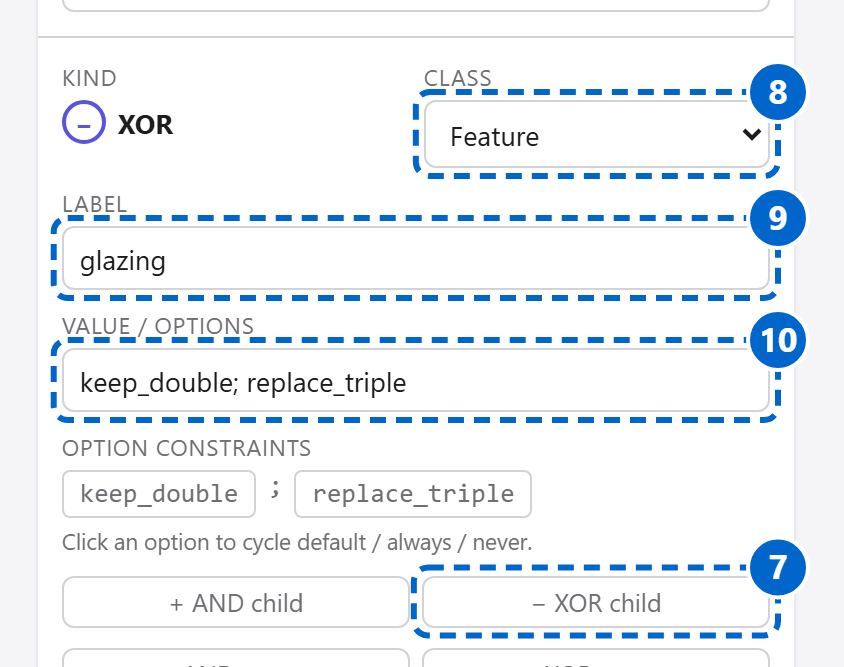
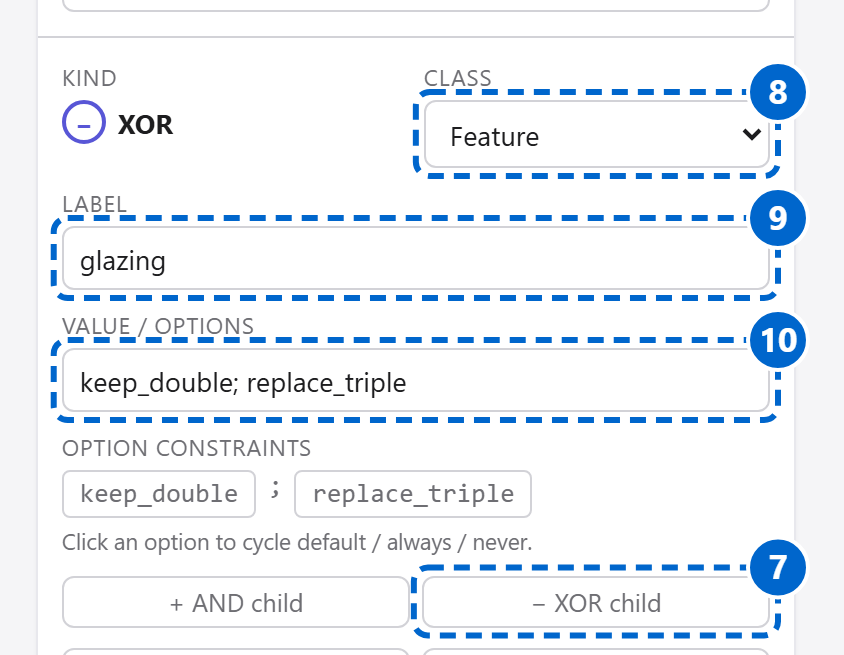
Update PNG & RENATA mentions

diff --git a/styles/editor.css b/styles/editor.css
@@ -34,7 +34,6 @@
 	--color-search-match: #FFE69A;
 	--color-search-current: #FDBF8E;
 
-	--font-display: system-ui, -apple-system, 'Segoe UI', sans-serif;
 	--font-body: system-ui, -apple-system, 'Segoe UI', sans-serif;
 	--font-mono: 'SF Mono', Consolas, monospace;
 
@@ -122,26 +121,6 @@ select {
 	height: 80px;
 }
 
-@media (max-width: 819px) {
-	.page-header {
-		grid-template-columns: auto 1fr;
-		column-gap: 16px;
-	}
-
-	#page-title {
-		grid-row: 1;
-		justify-self: center;
-		min-width: 0;
-		margin: 0;
-	}
-
-	.page-logo {
-		max-width: 100%;
-		height: 48px;
-		object-fit: contain;
-	}
-}
-
 .tutorial-start {
 	display: flex;
 	grid-row: 1 / 3;
@@ -151,14 +130,6 @@ select {
 	justify-self: end;
 	gap: 10px;
 	margin-top: -12px;
-}
-
-@media (max-width: 819px) {
-	.tutorial-start {
-		grid-row: 2;
-		grid-column: 2;
-		margin-top: 0;
-	}
 }
 
 .tutorial-btn {
@@ -186,19 +157,6 @@ select {
 	border-bottom: 1px solid var(--color-border);
 }
 
-@media (max-width: 559px) {
-	.tutorial-start {
-		grid-column: 1 / -1;
-		justify-self: start;
-		white-space: nowrap;
-	}
-
-	.tabs {
-		grid-row: 3;
-		white-space: nowrap;
-	}
-}
-
 .tab {
 	padding: 10px 18px;
 	border: 1px solid transparent;
@@ -220,6 +178,49 @@ select {
 	color: var(--color-ink);
 	font-weight: 600;
 }
+
+/* ---------- Zoomed-in header ---------- */
+
+@media (max-width: 819px) {
+	.page-header {
+		grid-template-columns: auto 1fr;
+		column-gap: 16px;
+	}
+
+	#page-title {
+		grid-row: 1;
+		justify-self: center;
+		min-width: 0;
+		margin: 0;
+	}
+
+	.page-logo {
+		max-width: 100%;
+		height: 48px;
+		object-fit: contain;
+	}
+
+	.tutorial-start {
+		grid-row: 2;
+		grid-column: 2;
+		margin-top: 0;
+	}
+}
+
+@media (max-width: 559px) {
+	.tutorial-start {
+		grid-column: 1 / -1;
+		justify-self: start;
+		white-space: nowrap;
+	}
+
+	.tabs {
+		grid-row: 3;
+		white-space: nowrap;
+	}
+}
+
+/* ---------- Tab panels ---------- */
 
 main {
 	display: flex;
@@ -2376,7 +2377,6 @@ button.value-chip:hover { border-color: var(--color-ink-muted); }
 
 .calc-report-title {
 	color: var(--color-ink);
-	font-family: var(--font-display);
 	font-size: 1.1rem;
 	font-weight: 600;
 }

diff --git a/index.html b/index.html
@@ -419,7 +419,7 @@
 						</div>
 						<a href="resources/tutorial/quick-start-4.png" target="_blank" rel="noopener"
 							title="Open the image at full size">
-							<img src="resources/tutorial/quick-start-4.png" width="422" height="334"
+							<img src="resources/tutorial/quick-start-4.png" width="422" height="328"
 								alt="The editor panel. XOR child is marked 7, Class 8, Label 9 and Value / options
 									10." />
 						</a>

diff --git a/src/core/parser.js b/src/core/parser.js
@@ -285,7 +285,7 @@ NovaDM.Parser = (function (Model, Calculations, Util) {
 		/**
 		 * @param {string} text the file's text
 		 * @returns {{tree: Array, history: Object, source: string, addedRoot: boolean}}
-		 * Throws an Error with a readable message if this is not a NovaDM file.
+		 * Throws an Error with a readable message if this is not a RENATA action tree file.
 		 */
 		parse: function (text) {
 			var data = parseJson(text);

diff --git a/spec/action-tree-grammar.md b/spec/action-tree-grammar.md
@@ -495,7 +495,8 @@ the detailed reference, for looking things up.
   outlined (their letters are paths), so they need no font and no
   internet connection. The header is hidden in the report's PDF. The
   README alone uses `renata-logo-dark.svg`, the same logo with colours
-  for GitHub's dark theme.
+  for GitHub's dark theme; only the colours differ, so change the two
+  together.
 - **The guides' buttons** sit at the right and span both rows with the
   same top margin as the RENATA logo, so the two are centred on one line.
   They reach into the tab bar's row, so they come after the tabs in the
@@ -1467,7 +1468,7 @@ it has none (the example, Clear tree, a new document).
 To switch to a different file type: edit `extension` / `mimeType` /
 `defaultName` on `TREE_FILE_FORMAT`, and rewrite `serialize()` /
 `parse()`. `parse()` must throw an `Error` with a readable message if
-the text isn't a NovaDM file. (If the new format is binary, the
+the text isn't a RENATA action tree file. (If the new format is binary, the
 `reader.readAsText` / `new Blob` calls in `tree-io.js`'s import/export
 handlers need to change too.)
 
@@ -1522,6 +1523,8 @@ every version; the others have the starter data in every version.
   K45 versions) carry a `source` line: "This renovation design concept
   was developed by COWI as part of the Horizon 2020 research project
   PROBONO (No. 101037075) funded by the European Union."
-
-These files aren't unified – known and deliberately deferred, not an
-oversight.
+- `examples/k45-full-case.json` holds all nine K45 versions, with `k45g`
+  on screen.
+- `examples/full-tree.json` is a full NovaDM tree in one version: 28
+  Subjects, 142 Approaches and 163 Features, a scenario space of about
+  4.6 × 10^30.

diff --git a/README.md b/README.md
@@ -1,7 +1,7 @@
 <h1>
 	<picture>
 		<source media="(prefers-color-scheme: dark)" srcset="resources/logos/renata-logo-dark.svg">
-		<img src="resources/logos/renata-logo.svg" alt="RENATA – RENovation Action Tree Authoring" width="277">
+		<img src="resources/logos/renata-logo.svg" alt="RENATA – Renovation action tree authoring" width="277">
 	</picture>
 </h1>
 
